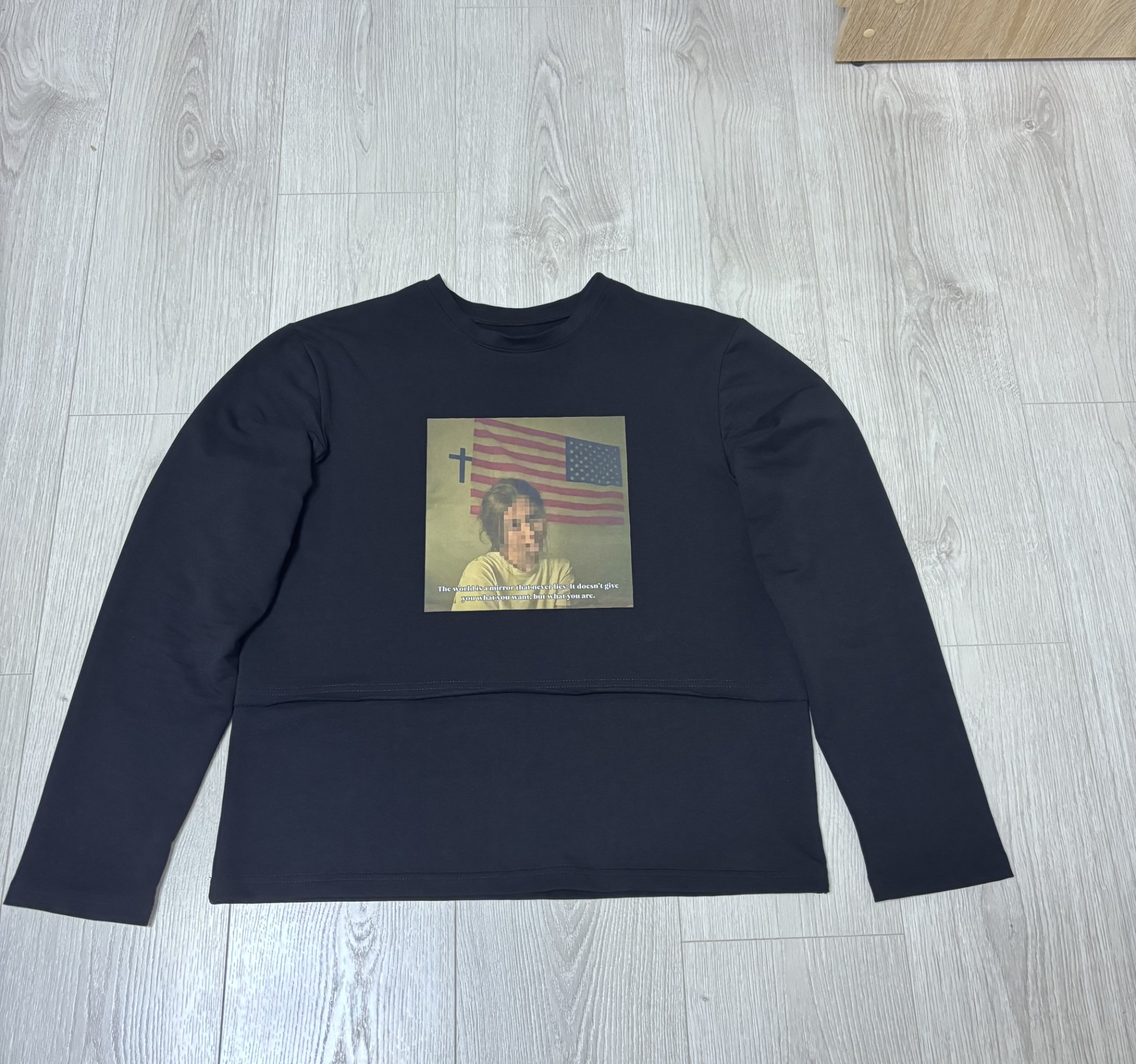
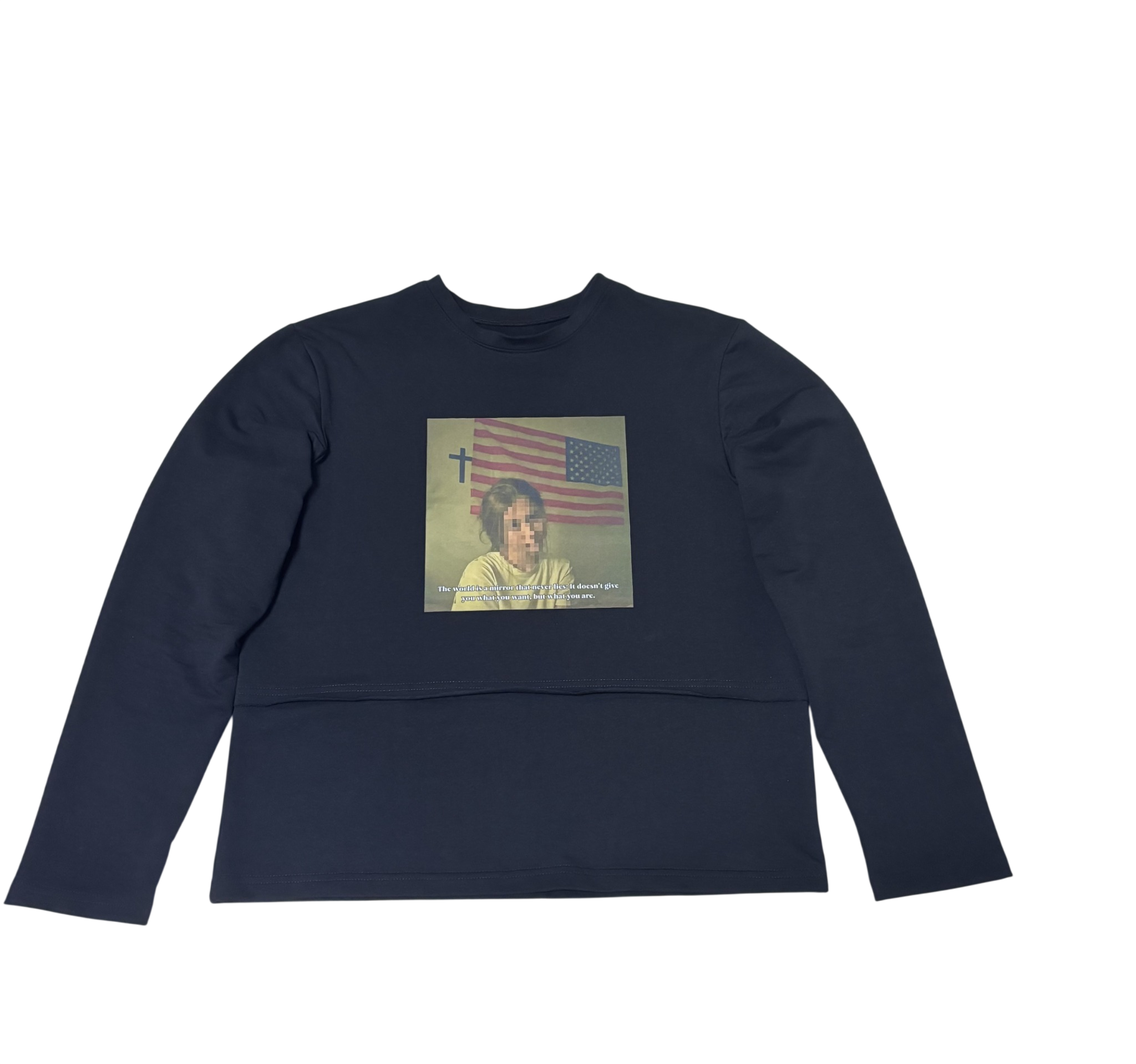
chore: replace first photo with white background version

diff --git a/index.html b/index.html
@@ -5,11 +5,11 @@
     <meta name="viewport" content="width=device-width, initial-scale=1.0, maximum-scale=1.0, user-scalable=no">
     <title>mirror.mirror.o</title>
     <script src="https://telegram.org/js/telegram-web-app.js"></script>
-    <link rel="stylesheet" href="css/styles.css?v=10">
+    <link rel="stylesheet" href="css/styles.css?v=11">
 </head>
 <body>
     <div id="app"></div>
-    <script src="js/data.js?v=10"></script>
-    <script src="js/app.js?v=10"></script>
+    <script src="js/data.js?v=11"></script>
+    <script src="js/app.js?v=11"></script>
 </body>
 </html>
